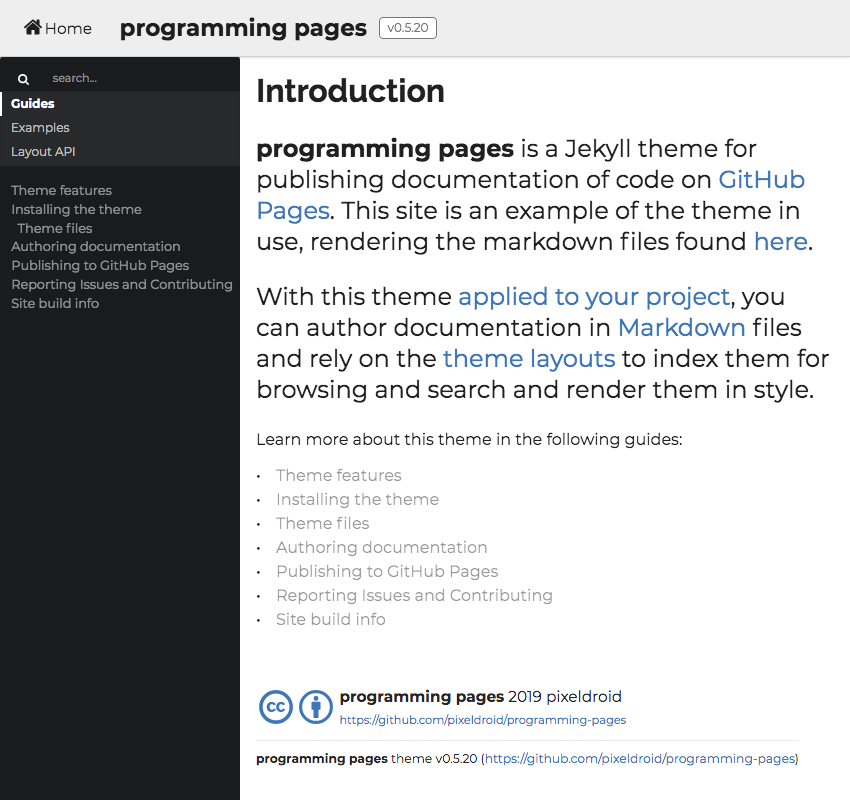
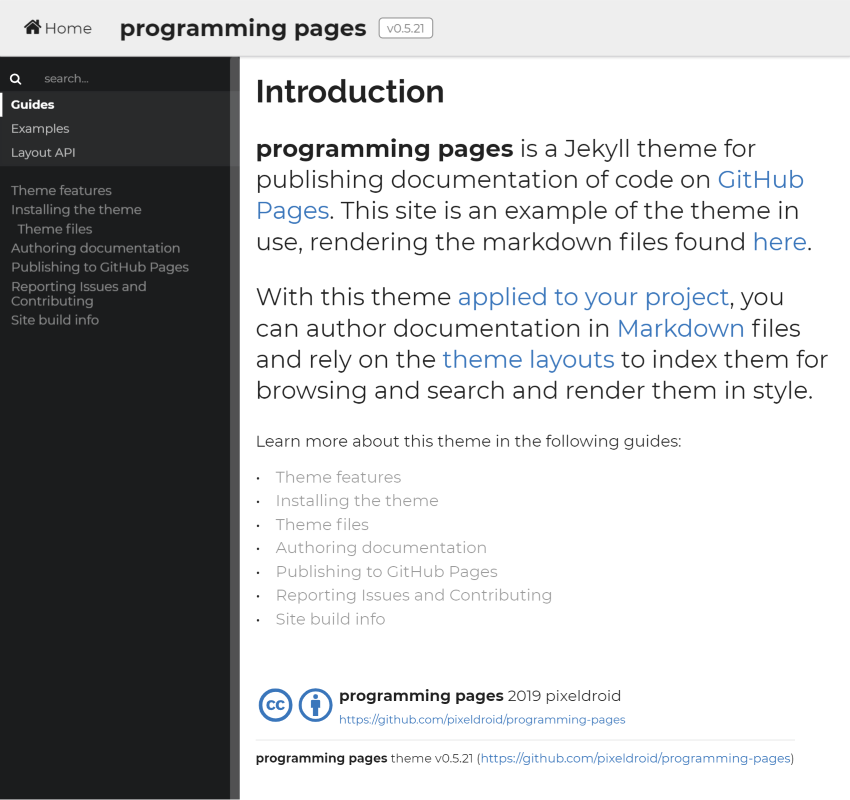
update version to 0.5.21

diff --git a/_layouts/page.html b/_layouts/page.html
@@ -1,6 +1,6 @@
 ---
 layout: base
-theme_version: 0.5.20
+theme_version: 0.5.21
 theme_url: https://github.com/pixeldroid/programming-pages
 ---
 
